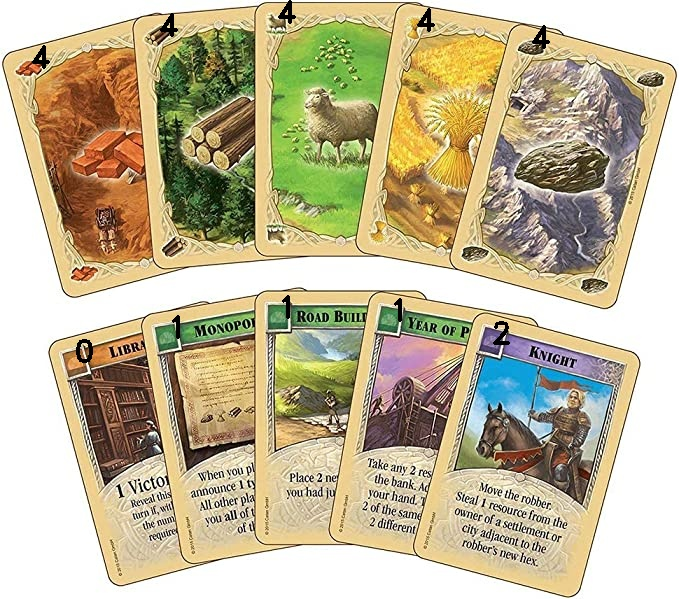
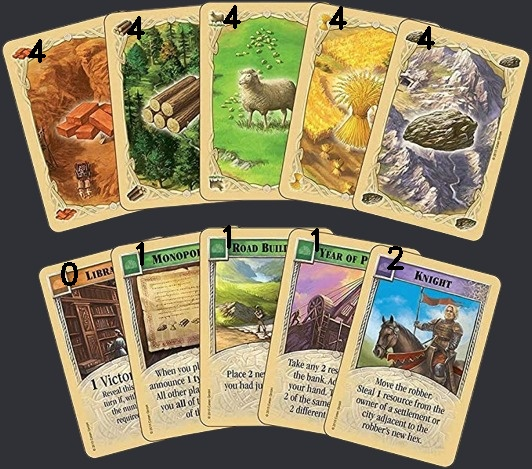
Fix color of hand

Changed region(s): [[0.0, 0.0, 1.0, 1.0], [0.3008, 0.8358, 0.3609, 0.8657]]

diff --git a/src/draw.py b/src/draw.py
@@ -403,15 +403,15 @@ def drawHand(player):
 
     for resource in player.currentResources:
         if resource == 'brick':
-            x,y = 30, 67
+            x,y = 26, 61
         elif resource == 'rock':
-            x,y = 530,47
+            x,y =415, 48
         elif resource == 'wheat':
-            x,y = 415,30
+            x,y = 327, 28
         elif resource == 'wood':
-            x,y = 158, 35
+            x,y = 125, 38
         else:
-            x,y = 276, 22
+            x,y =  221, 27
         
         num = player.currentResources[resource]
 
@@ -419,15 +419,15 @@ def drawHand(player):
 
     for dev in player.unusedDevelopmentCards:
         if dev == 'KnightCard':
-            x,y = 491,343
+            x,y = 380, 263
         elif dev == 'YearOfPlenty':
-            x,y = 389, 320
+            x,y = 301, 245
         elif dev == 'Monopoly':
-            x,y = 167, 337
+            x,y = 126,259
         elif dev == 'RoadBuilding':
-            x,y = 277, 317
+            x,y = 213,242
         else:
-            x,y = 74, 361
+            x,y = 54, 279
         
         num = player.unusedDevelopmentCards[dev]
 
